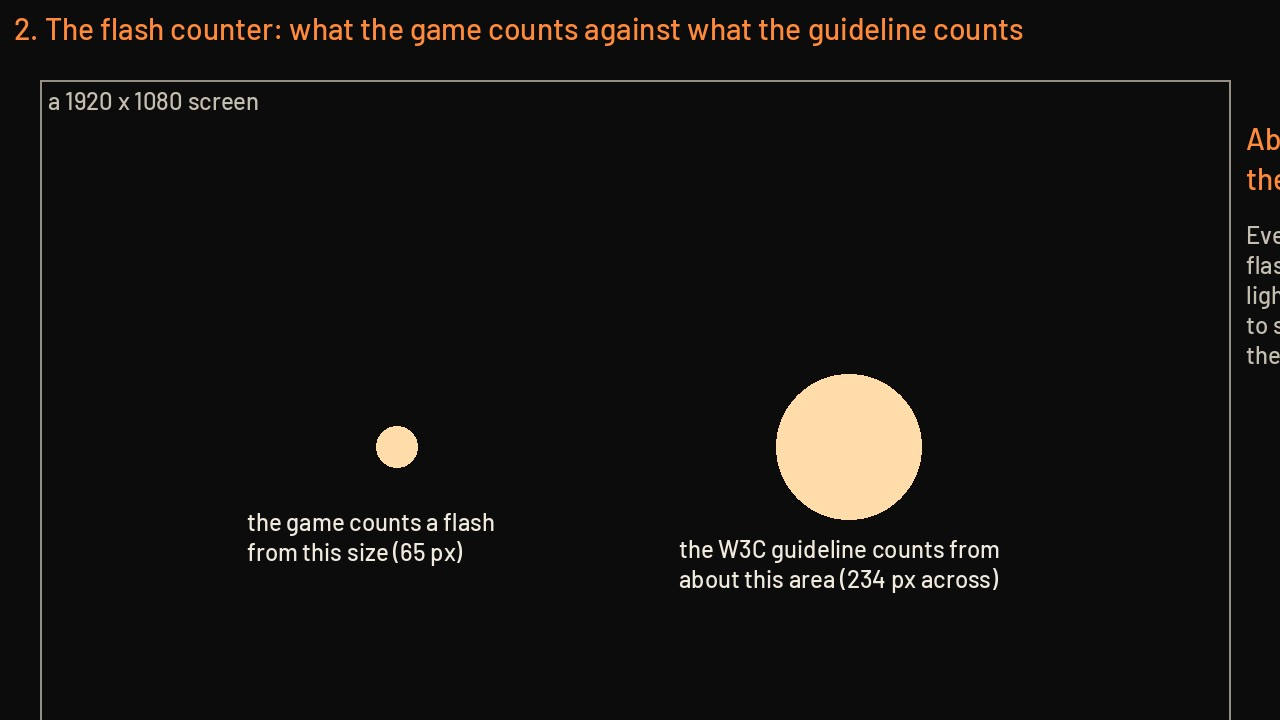
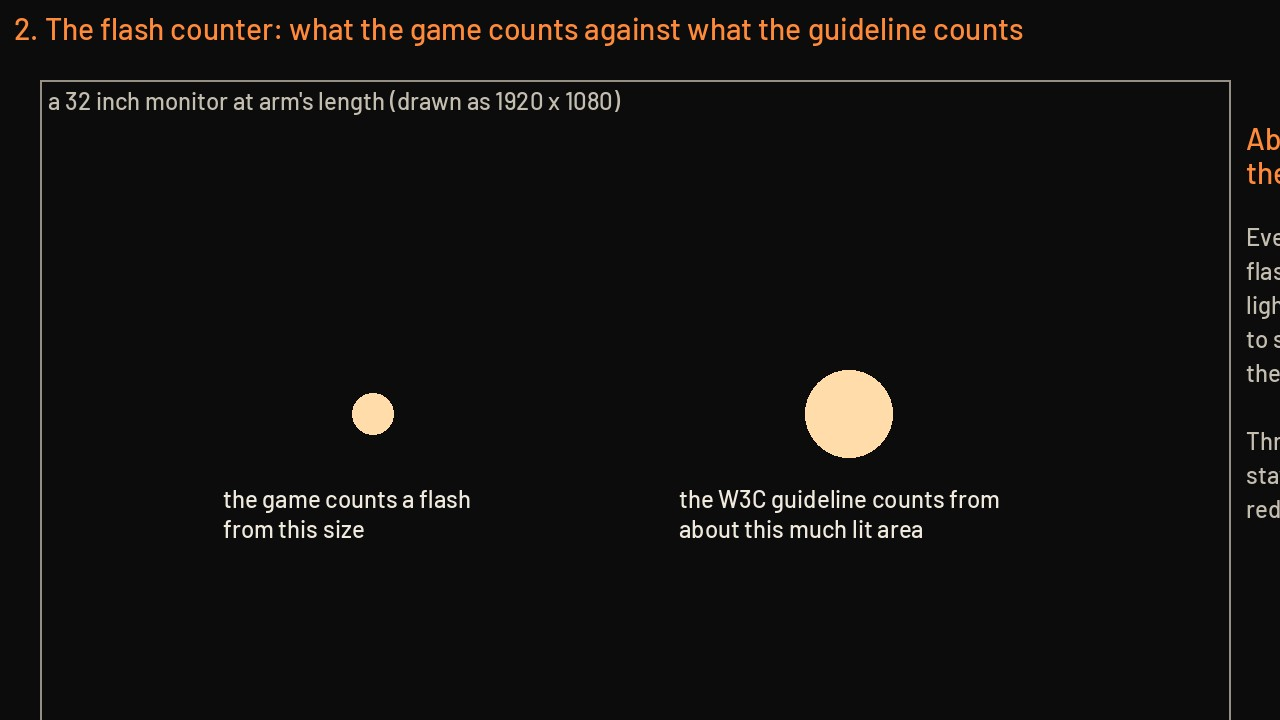
Issue 487: correct the flash counter arithmetic (viewing angle, five to seven times on a desk monitor, not thirteen)
Refs #487.

Claude-Session: https://claude.ai/code/session_01TX7Q23can1f6QeVufKX6Qw

diff --git a/contrib/opus/reviews/cinematic_audit_top10.md b/contrib/opus/reviews/cinematic_audit_top10.md
@@ -25,7 +25,7 @@ What the Board did with them, as Ryan asked ("validate themselves, look for root
 
 Five habits explain almost every finding. Fixing the habit matters more than fixing the list.
 
-**A. One strict counter, and everything tuned to hide under it.** The game counts a bright flash from 65 pixels across. The guideline it cites counts from about thirteen times that area. Every hit, muzzle flash and hull light was then sized to sit just under the game's number, on purpose (godot/fx/fx_weapons.gd lines 64 to 69: "All stay under the 65 px... so they never wait on the flash budget... Claude's calls, vetoable"). So no gun in the game is allowed to look big.
+**A. One strict counter, and everything tuned to hide under it.** The game counts a bright flash from 65 pixels across. On a desk monitor the guideline it cites counts from about five to seven times that area. Every hit, muzzle flash and hull light was then sized to sit just under the game's number, on purpose (godot/fx/fx_weapons.gd lines 64 to 69: "All stay under the 65 px... so they never wait on the flash budget... Claude's calls, vetoable"). So no gun in the game is allowed to look big.
 
 **B. One recipe, resized.** Every hit, explosion and death is the same flash plus the same soft puff, at different sizes. The playbook describes different hits for different weapons (a spark cone for shells, a crawling burn for the lance, fire through gas for a torpedo). Those rows were written and never built; one bake route was cheaper and easier to measure.
 
@@ -47,10 +47,10 @@ Each has a named picture in docs/shots/cinematic_audit/top10/. LOOK means only t
 - **Fix:** build the playbook's hit rows as real, different recipes (shell: a spark cone that skips; energy: a splash that runs along the plate; torpedo: fire through gas with thrown debris), and size each by the gun that fired it as well as the ship it hits. Root causes A and B.
 - **LOOK. Large** (three or four runs, with a rebake). Picture: t01_hits_one_small_stamp.jpg.
 
-### 2. The flash counter is about thirteen times stricter than the guideline it cites
+### 2. The flash counter is about five to seven times stricter than the guideline it cites
 - **Now:** a capital death uses the whole allowance for over a second, so a torpedo or a second death in that window is turned into a dim puff and lights nothing.
-- **Where:** godot/fx/fx.gd:23-25 (three flashes a second; a flash counts from 6 percent of screen height). W3C, Understanding SC 2.3.1: the limit applies when the combined flashing area passes a quarter of a 10 degree field, which W3C estimates as a 341 by 256 pixel box on a 1024 by 768 screen. That is about a 234 pixel disc on a 1080 screen, against the game's 65.
-- **Fix:** keep three a second and keep reduce flashing exactly as it is. Count by combined area, as the guideline does. Let a refused flash keep its size, colour and light and lose only its sharp peak.
+- **Where:** godot/fx/fx.gd:23-25 (three flashes a second; a flash counts from 6 percent of screen height). W3C, Understanding SC 2.3.1: the limit applies when the combined flashing area passes a quarter of a 10 degree field, which W3C estimates as a 341 by 256 pixel box on a 1024 by 768 screen. The guideline is about viewing angle, not pixels, so the right size depends on the screen and how far away it is. The Board's arithmetic (viewing distance 24 inches): on a 27 inch monitor the limit starts at a patch about 15.5 percent of screen height across (167 px at 1080); on a 32 inch monitor about 13 percent (141 px at 1080). The game counts from 6 percent (65 px). In area that is about 6.7 times stricter on the 27 inch and 4.8 times on the 32 inch. **Correction:** the code leg's figure of 234 px and "thirteen times", which the Board repeated to Ryan on Nov 11, scaled the guideline's small example screen up by resolution; it overstates the room on a large monitor. Ryan has a 4K and a 1440p monitor of sizes not on record, so the new counter must work from viewing angle with a cautious default (a 32 inch screen at 24 inches) and say what it assumes.
+- **Fix:** keep three a second and keep reduce flashing exactly as it is. Count by combined area inside any 10 degree window, as the guideline does, from a stated screen size and distance. Let a refused flash keep its size, colour and light and lose only its sharp peak.
 - **Cautions:** several small flashes at once add up, and a large monitor close up has less margin. Prove the new counter with the salvo test before it ships. **This is a comfort limit, so it is Ryan's decision (below).**
 - **LOOK. Medium.** Picture: t02_flash_counter.jpg.
 
